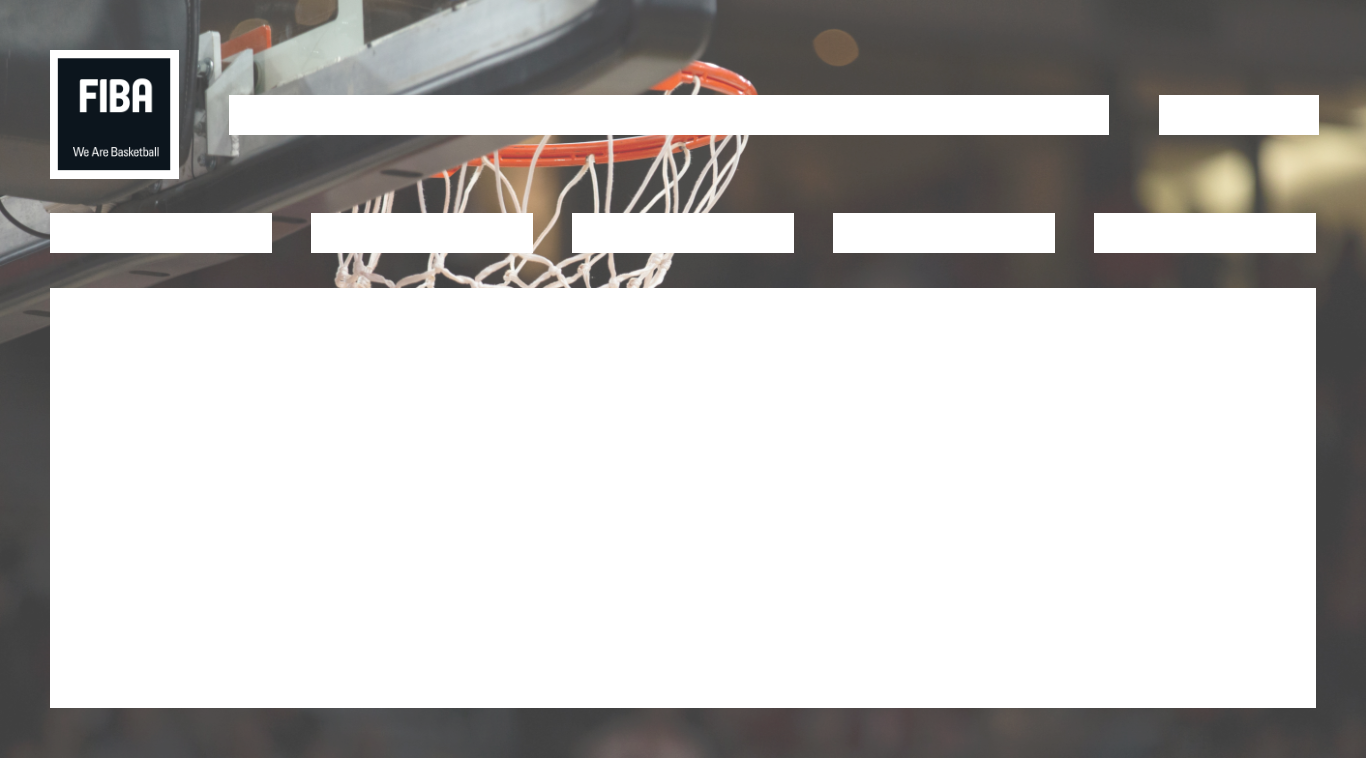
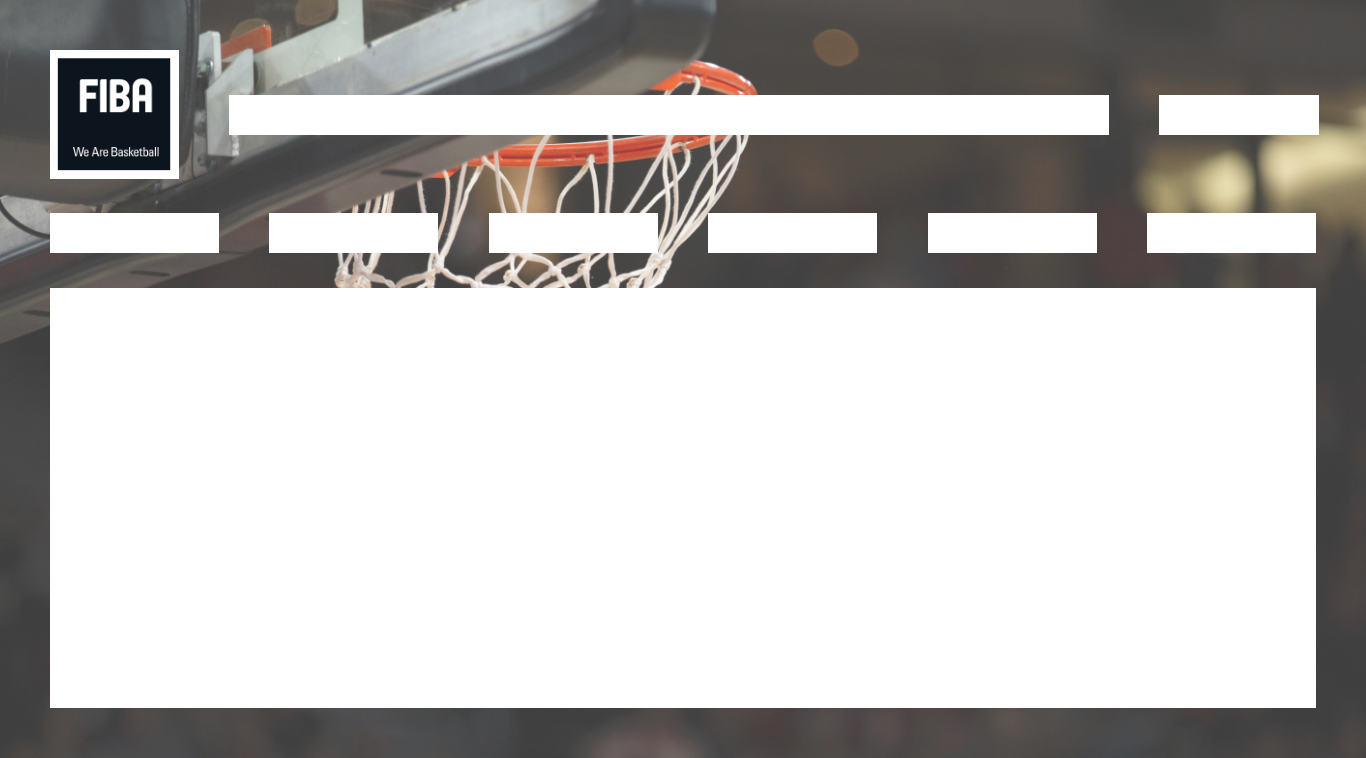
Main screen arranged and modals titles

diff --git a/src/gui/DataManagementGUI.java b/src/gui/DataManagementGUI.java
@@ -255,7 +255,7 @@ public class DataManagementGUI {
 	}
 
 	@FXML
-	public void seachByName(ActionEvent event) throws IOException {
+	public void searchByName(ActionEvent event) throws IOException {
 		long timeToSearch;
 		if(!txtFieldSearchName.getText().equalsIgnoreCase("")) {
 			long startTime = System.currentTimeMillis();
@@ -283,9 +283,9 @@ public class DataManagementGUI {
 		modalStage.getIcons().add(new Image(new FileInputStream("data/images/FIBA_logo.png")));
 		modalStage.setScene(new Scene(infoPlayer));
 		modalStage.setTitle("Info Player");
-		modalStage.initModality(Modality.WINDOW_MODAL);
+		modalStage.initModality(Modality.APPLICATION_MODAL);
 
-		modalStage.show();
+		modalStage.showAndWait();
 		loadInfoPlayer(playerInfo, 0, 1);
 	}
 
@@ -313,10 +313,10 @@ public class DataManagementGUI {
 		modalStage = new Stage();
 		modalStage.getIcons().add(new Image(new FileInputStream("data/images/FIBA_logo.png")));
 		modalStage.setScene(new Scene(infoPlayer));
-		modalStage.setTitle("Info Player");
-		modalStage.initModality(Modality.WINDOW_MODAL);
+		modalStage.setTitle("Assists Filter");
+		modalStage.initModality(Modality.APPLICATION_MODAL);
 
-		modalStage.show();
+		modalStage.showAndWait();
 	}
 
 	@FXML
@@ -329,9 +329,9 @@ public class DataManagementGUI {
 		modalStage = new Stage();
 		modalStage.getIcons().add(new Image(new FileInputStream("data/images/FIBA_logo.png")));
 		modalStage.setScene(new Scene(infoPlayer));
-		modalStage.setTitle(" dataFilter by PER y.WINDOW_MODAL);\n");
-		modalStage.initModality(Modality.WINDOW_MODAL);
-		modalStage.show();
+		modalStage.setTitle("Player Efficiency Rating Filter");
+		modalStage.initModality(Modality.APPLICATION_MODAL);
+		modalStage.showAndWait();
 	}
 
 	@FXML
@@ -344,10 +344,10 @@ public class DataManagementGUI {
 		modalStage = new Stage();
 		modalStage.getIcons().add(new Image(new FileInputStream("data/images/FIBA_logo.png")));
 		modalStage.setScene(new Scene(infoPlayer));
-		modalStage.setTitle("Filter by Rebounds data");
-		modalStage.initModality(Modality.WINDOW_MODAL);
+		modalStage.setTitle("Rebounds Filter");
+		modalStage.initModality(Modality.APPLICATION_MODAL);
 
-		modalStage.show();
+		modalStage.showAndWait();
 	}
 
 	@FXML
@@ -360,10 +360,10 @@ public class DataManagementGUI {
 		modalStage = new Stage();
 		modalStage.getIcons().add(new Image(new FileInputStream("data/images/FIBA_logo.png")));
 		modalStage.setScene(new Scene(infoPlayer));
-		modalStage.setTitle("Info Player");
-		modalStage.initModality(Modality.WINDOW_MODAL);
+		modalStage.setTitle("Steals Filter");
+		modalStage.initModality(Modality.APPLICATION_MODAL);
 
-		modalStage.show();
+		modalStage.showAndWait();
 	}
 
 	@FXML
@@ -376,10 +376,10 @@ public class DataManagementGUI {
 		modalStage = new Stage();
 		modalStage.getIcons().add(new Image(new FileInputStream("data/images/FIBA_logo.png")));
 		modalStage.setScene(new Scene(infoPlayer));
-		modalStage.setTitle("Info Player");
-		modalStage.initModality(Modality.WINDOW_MODAL);
+		modalStage.setTitle("True Shooting Filter");
+		modalStage.initModality(Modality.APPLICATION_MODAL);
 
-		modalStage.show();
+		modalStage.showAndWait();
 	}
 
 	@FXML
@@ -392,10 +392,10 @@ public class DataManagementGUI {
 		modalStage = new Stage();
 		modalStage.getIcons().add(new Image(new FileInputStream("data/images/FIBA_logo.png")));
 		modalStage.setScene(new Scene(infoPlayer));
-		modalStage.setTitle("Info Player");
-		modalStage.initModality(Modality.WINDOW_MODAL);
+		modalStage.setTitle("Blocks Filter");
+		modalStage.initModality(Modality.APPLICATION_MODAL);
 
-		modalStage.show();
+		modalStage.showAndWait();
 	}
 
 	//methods modals

diff --git a/src/gui/Main.java b/src/gui/Main.java
@@ -30,7 +30,7 @@ public class Main extends Application {
 		primaryStage.getIcons().add(new Image(new FileInputStream("data/images/FIBA_logo.png")));
 		Parent root = fxmlLoader.load();
 
-		Scene scene = new Scene(root,1366,700);
+		Scene scene = new Scene(root,1366,770);
 		dataManagementGUI.showMainScreen();
 		primaryStage.setScene(scene);
 		primaryStage.setTitle("Data Management");
